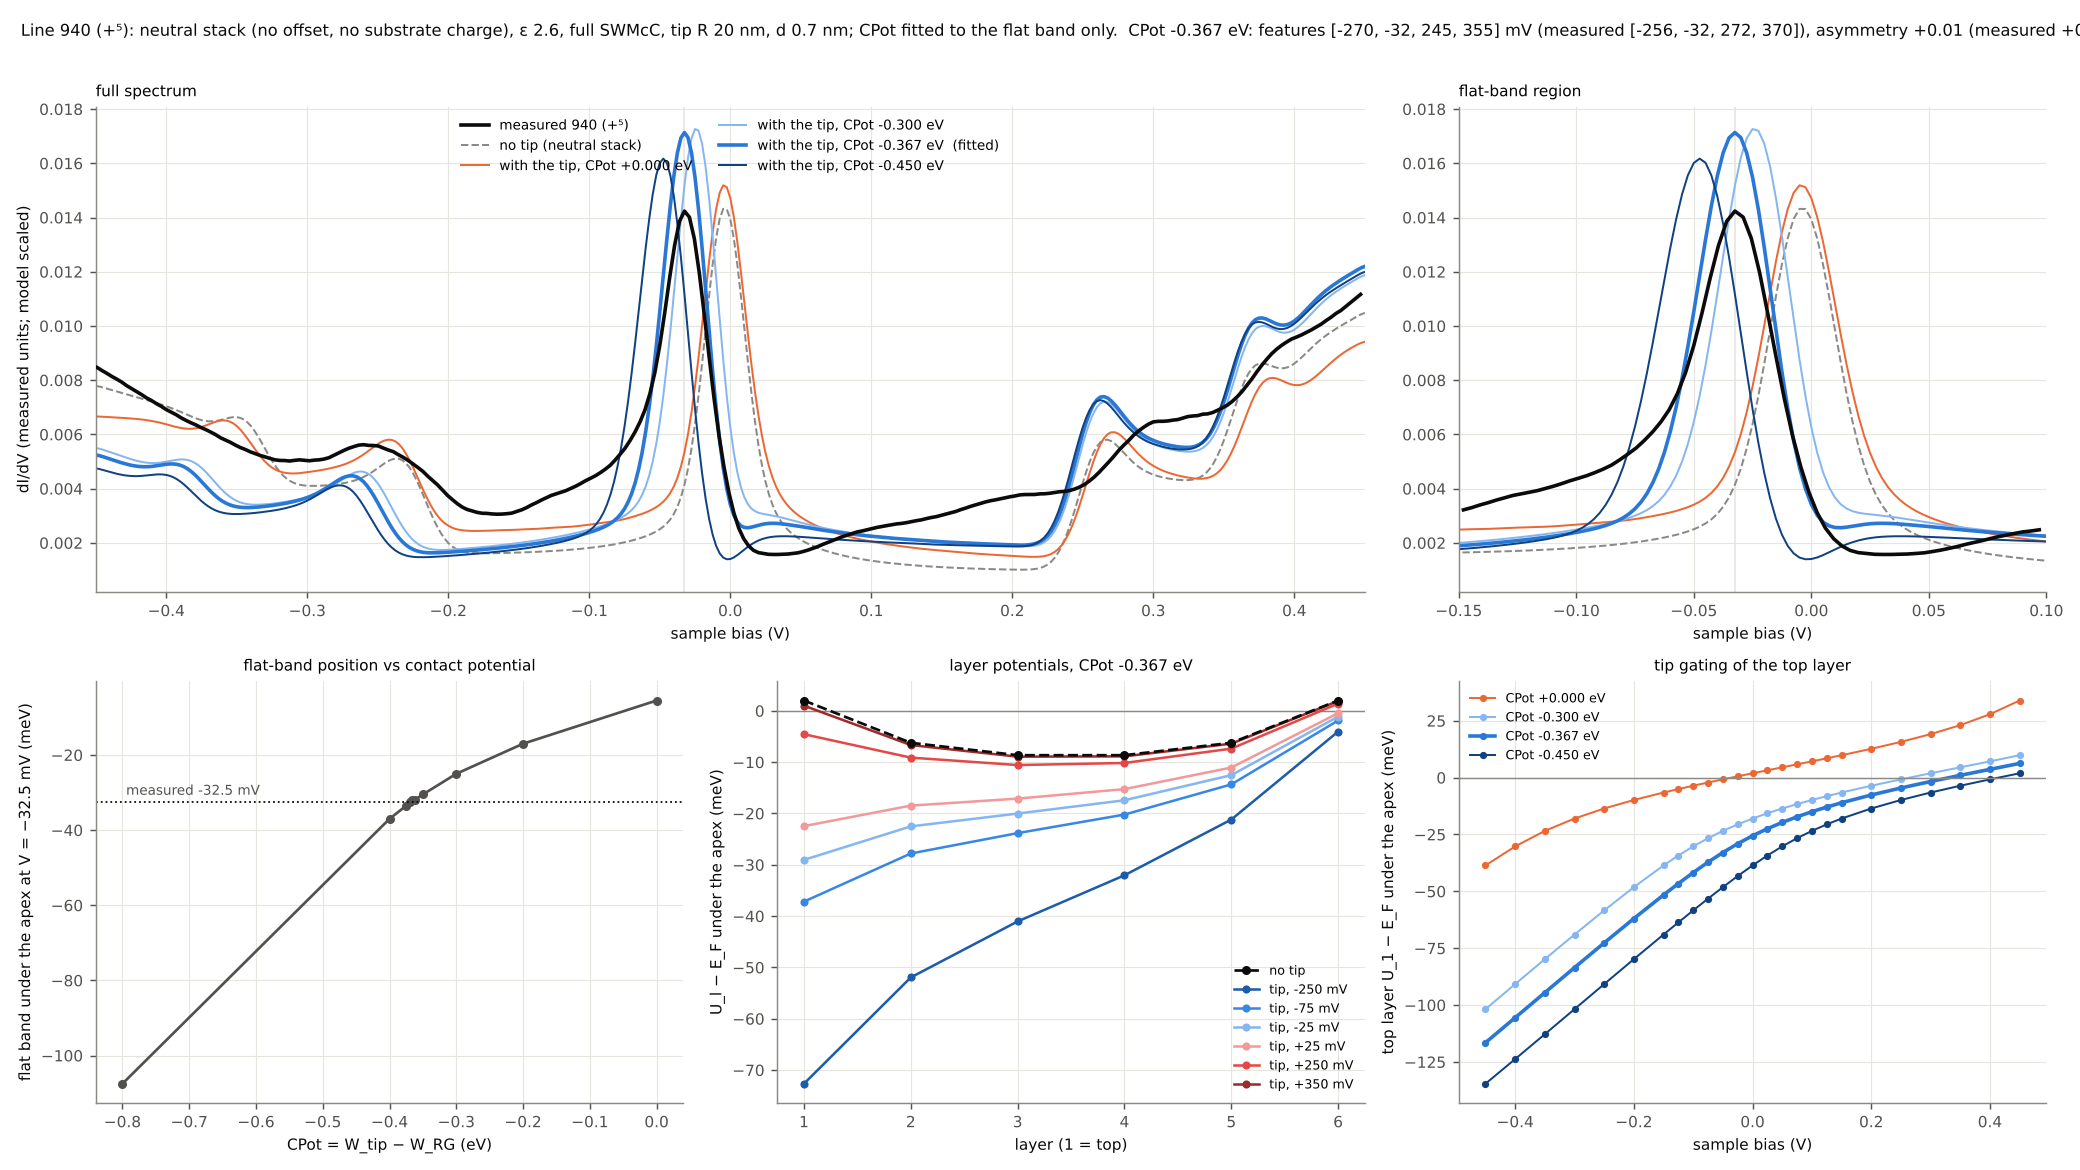
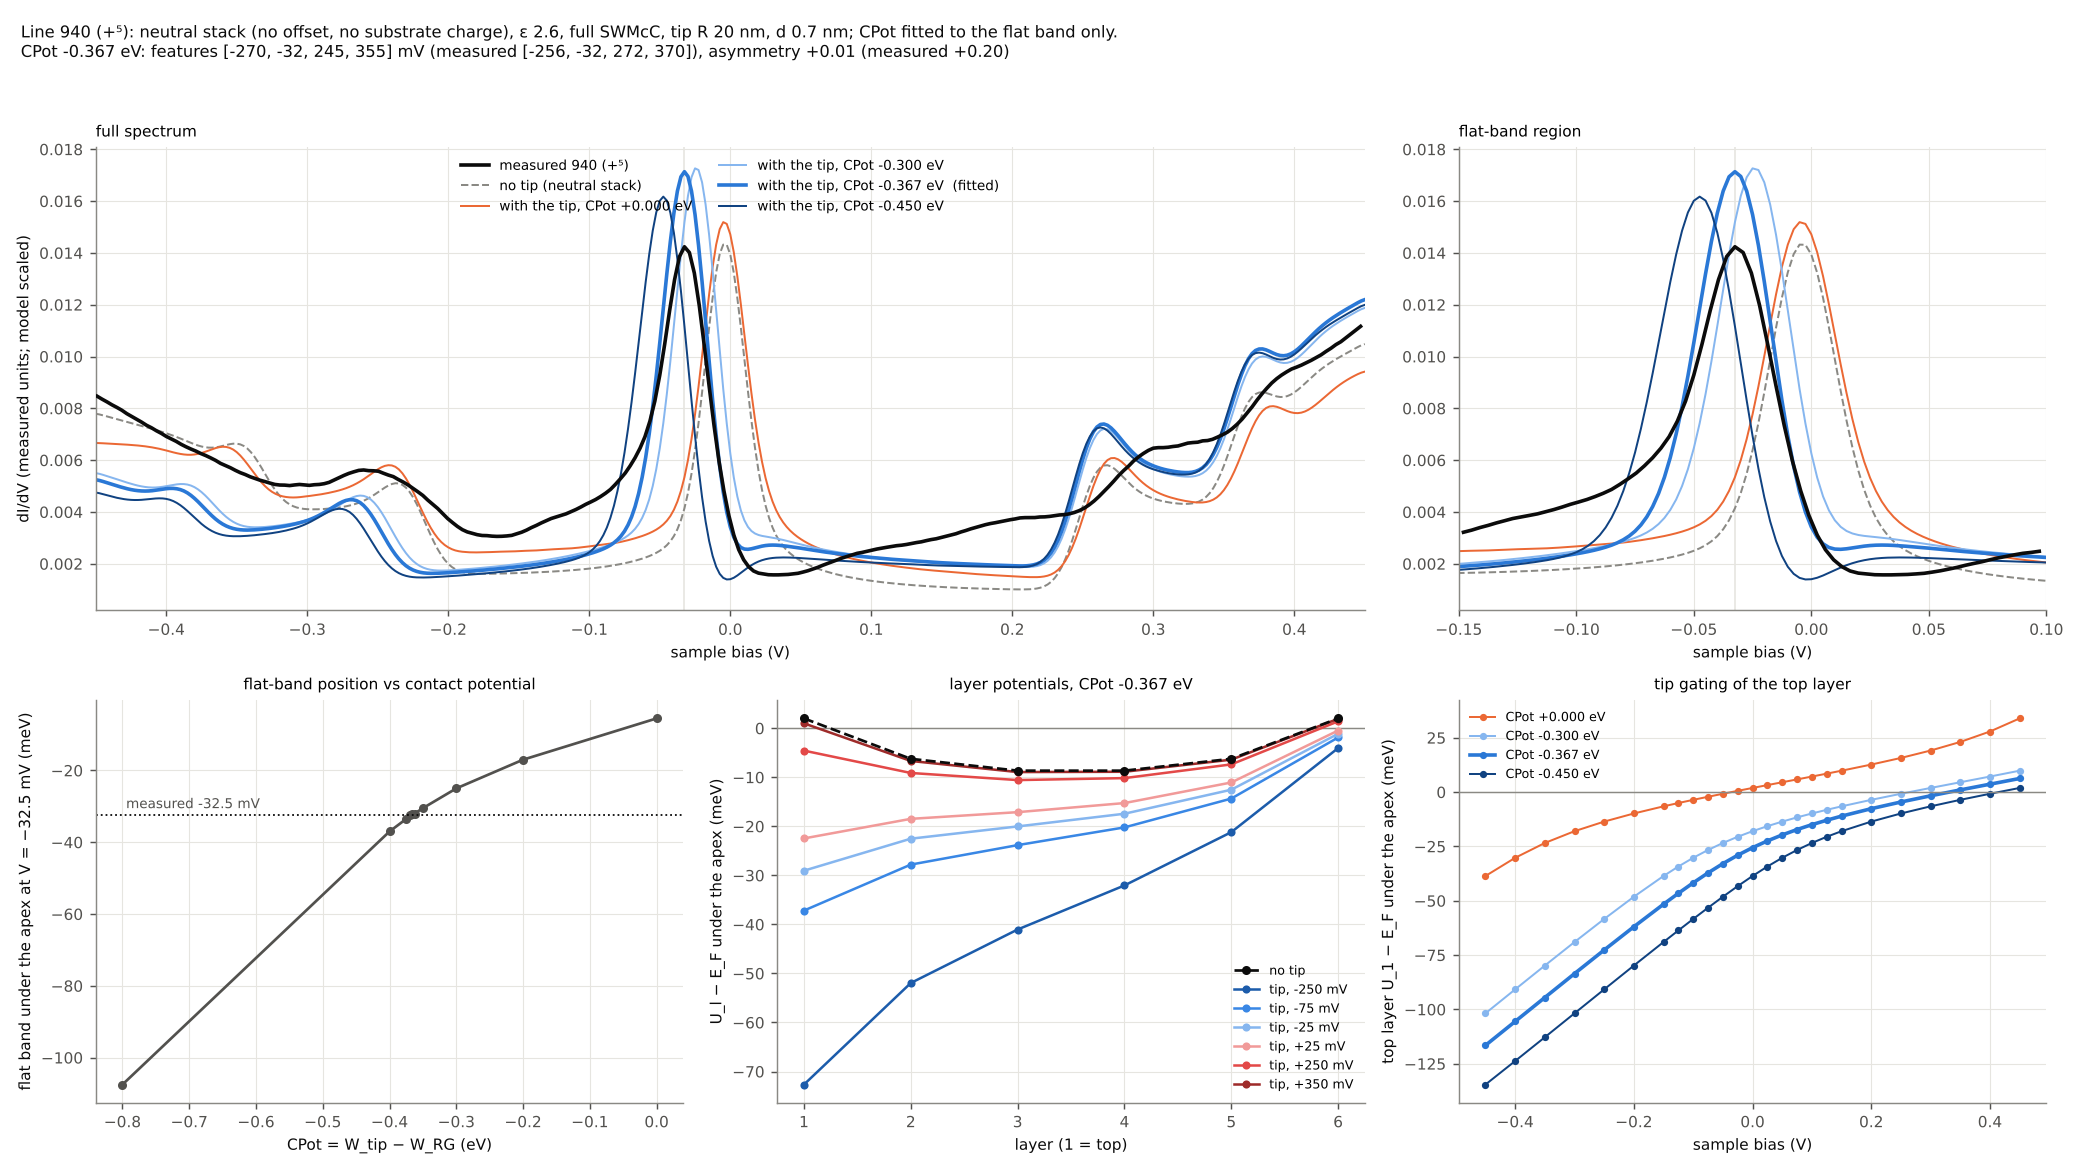
cpot940 figure: two-line title
Claude-Session: https://claude.ai/code/session_01PsfWzcxrPsoDkZCcWNxjWK

diff --git a/stacking_wall_epsfit/cpot940_plot.py b/stacking_wall_epsfit/cpot940_plot.py
@@ -56,7 +56,7 @@ if __name__ == "__main__":
     t = runs[best]["tip"]
     a.set_ylabel("dI/dV (measured units; model scaled)")
     fig.suptitle(f"Line 940 (+⁵): neutral stack (no offset, no substrate charge), ε 2.6, full SWMcC, tip R 20 nm, d 0.7 nm; "
-                 f"CPot fitted to the flat band only.  CPot {best:+.3f} eV: features {C.S._mv(t['features'])} mV "
+                 f"CPot fitted to the flat band only.\nCPot {best:+.3f} eV: features {C.S._mv(t['features'])} mV "
                  f"(measured {C.S._mv(fm)}), asymmetry {t['asym']:+.2f} (measured {runs[best]['measured_asym']:+.2f})",
                  fontsize=9, x=0.01, ha="left", color=INK)
     a.set_title("full spectrum", fontsize=8.5, loc="left")
@@ -95,7 +95,7 @@ if __name__ == "__main__":
     e.legend(fontsize=7, frameon=False)
     for ax in (a, b, c, d, e):
         style(ax)
-    fig.tight_layout(rect=(0, 0, 1, 0.97))
+    fig.tight_layout(rect=(0, 0, 1, 0.955))
     out = os.path.join(REPO, "examples", "stacking_wall_cpot940.png")
     fig.savefig(out, dpi=130)
     print("wrote", out)
